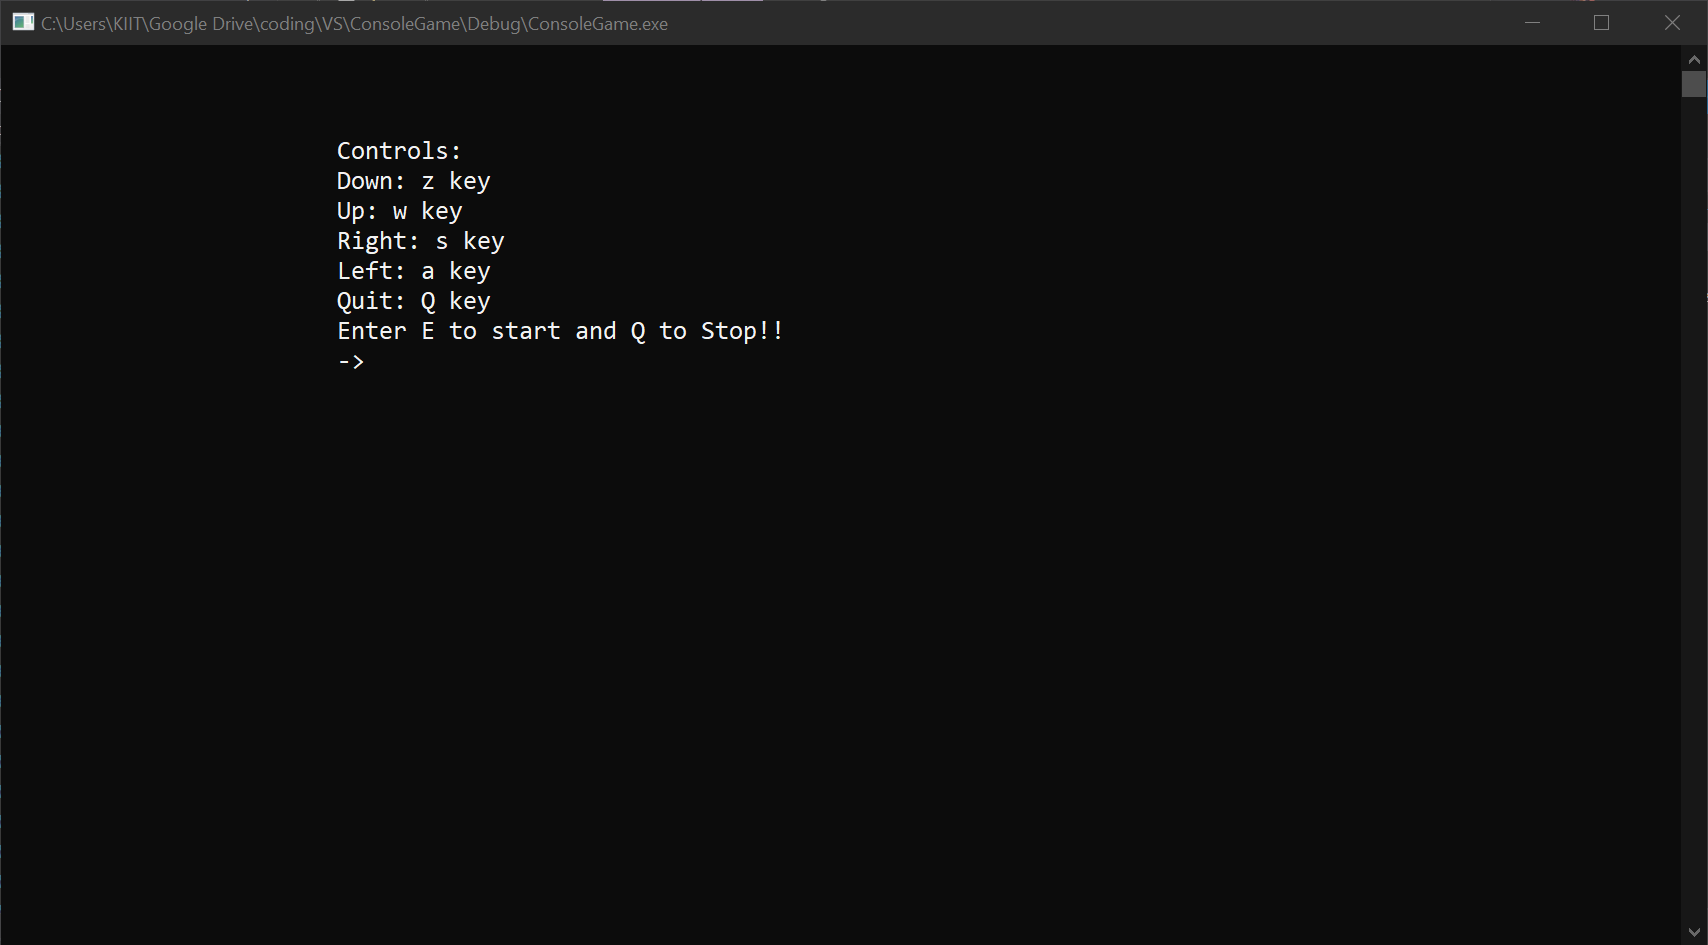
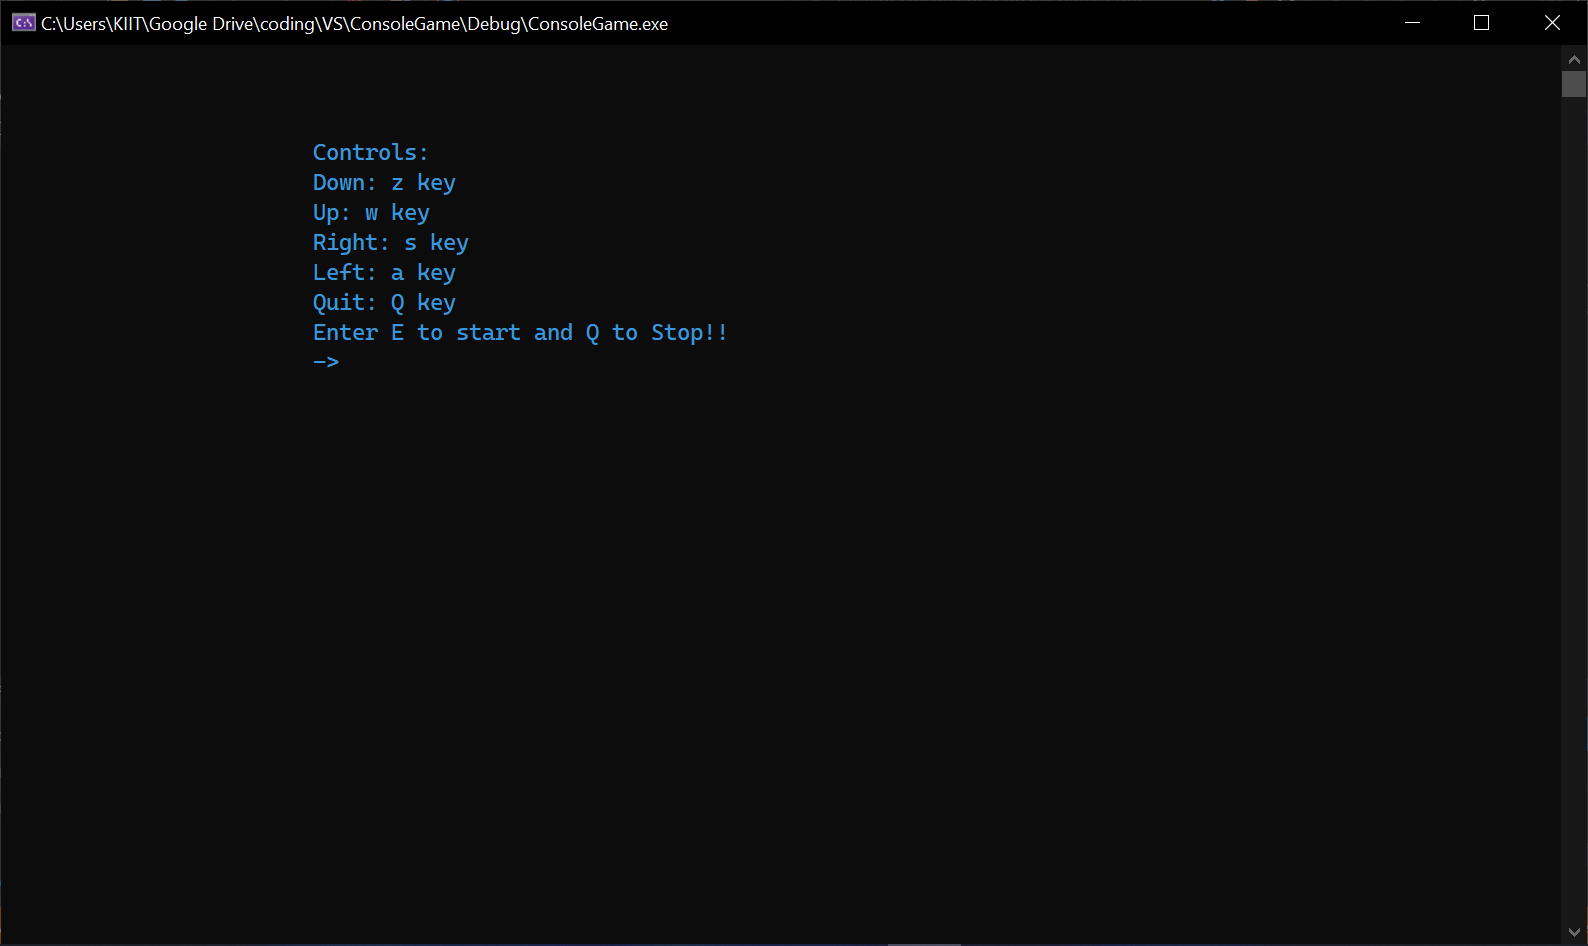
Added the winning status and much more

Changed region(s): [[0.0, 0.0, 1.0, 0.0614], [0.0, 0.982, 1.0, 1.0], [0.1851, 0.1534, 0.4628, 0.3683]]

diff --git a/ConsoleGame/ConsoleGame.cpp b/ConsoleGame/ConsoleGame.cpp
@@ -6,62 +6,83 @@ void sleep(unsigned milliseconds)
 {
     Sleep(milliseconds);
 }
-#else
-#include <unistd.h>
-
-void sleep(unsigned milliseconds)
-{
-    usleep(milliseconds * 1000); // takes microseconds
-}
 #endif
 
 #include <iostream>
 #include <time.h>
 #include <conio.h>
-#include <Windows.h>
-void createWindow(int, int, char**);
+#include <ios>
 
 class Game {
 
 public:
     Game() {
-        width = 80;
-        height = 20;
+        width = 20;
+        height = 7;
         usrRow = 1;
-        usrCol = 3;
+        usrCol = 2;
+        usr = '@';
+        boundary = '#';
+        empty = '.';
+        wonRow = height - 2;
+        wonCol = width - 2;
         matrix = new char* [height];
         for (int i = 0; i < height; i++)
             matrix[i] = new char[width];
-    }
+        
+        for (int i = 0; i < height; i++)
+            for (int j = 0; j < width; j++)
+                matrix[i][j] = empty;
 
-    void construct() {
         for (int i = 0; i < height; i++) {
             for (int j = 0; j < width; j++) {
                 if (j == 0 || j == width - 1) {
-                    matrix[i][j] = '#';
+                    matrix[i][j] = boundary;
                 }
                 else if (i == 0 || i == height - 1) {
-                    matrix[i][j] = '#';
+                    matrix[i][j] = boundary;
                 }
                 else if (i == usrRow && j == usrCol) {
-                    matrix[i][j] = '@';
-                }
-                else {
-                    matrix[i][j] = '-';
+                    matrix[i][j] = usr;
                 }
             }
         }
+        matrix[wonRow][wonCol] = 'X';
+
+        console_color = GetStdHandle(STD_OUTPUT_HANDLE);
+    }
+
+    void construct() {
+        //matrix[height / 2][width / 2] = boundary;
+        for (int row = 1; row < height / 2; row++)
+            matrix[row][3] = boundary;
+           
+        for(int row=0; row<height/2; row++)
+            matrix[height - 2 - row][width - 4] = boundary;
+        matrix[2][7] = boundary;
+
+        matrix[height - 2][3] = boundary;
+        for (int col = 3; col < 6; col++)
+            matrix[height - 3][col] = boundary;
+        
+        for (int row = 1; row <= height / 2; row++)
+            matrix[row][width - 7] = boundary;
+
+        for (int row = height/2; row <height; row++)
+            matrix[row][width - 10] = boundary;
+
     }
 
     void operatorJob()
     {
-        std::cout << "\n\n\n";
-        std::cout << "\t\t\tControls:\n";
-        std::cout << "\t\t\tDown: z key\n";
-        std::cout << "\t\t\tUp: w key\n";
-        std::cout << "\t\t\tRight: s key\n";
-        std::cout << "\t\t\tLeft: a key\n";
-        std::cout << "\t\t\tQuit: Q key\n";
+        SetConsoleTextAttribute(console_color, 3);
+        printf( "\n\n\n");
+        printf( "\t\t\tControls:\n");
+        printf( "\t\t\tDown: z key\n");
+        printf( "\t\t\tUp: w key\n");
+        printf( "\t\t\tRight: s key\n");
+        printf( "\t\t\tLeft: a key\n");
+        printf( "\t\t\tQuit: Q key\n");
         printf("\t\t\tEnter E to start and Q to Stop!!\n");
         printf("\t\t\t-> ");
         if (_getch() == 'E') {
@@ -79,26 +100,32 @@ public:
     }
 
     bool validBoundary(int i, int j) {
-        if (i > 0 && i < height - 1 && j>0 && j < width - 1)
+        if (i > 0 && i < height - 1 && j>0 && j < width - 1 && matrix[i][j]!=boundary)
             return true;
         return false;
     }
     
     void gameLoop();
+    void createWindow();
 
 private:
     int width, height;
     char** matrix;
+    HANDLE console_color;
     int usrRow, usrCol;
+    char usr, boundary, empty;
+    int wonRow, wonCol;
 };
 
 /***
 * increase the speed of update to instant we like use of '\b' or '\c'
 */
 void Game::gameLoop(void) {
+    SetConsoleTextAttribute(console_color, 10);
+    Game::createWindow();
     while (1) {
         int flag = 0;
-        createWindow(height, width, matrix);
+        int used = 0;
         switch (_getch())
         {
             case 'Q':flag = 1;
@@ -106,65 +133,97 @@ void Game::gameLoop(void) {
 
             case 'w': //up 
                 if (validBoundary(usrRow - 1, usrCol)) {
-                    matrix[usrRow][usrCol] = '-';
-                    matrix[usrRow-1][usrCol] = '@';
+                    matrix[usrRow][usrCol] = empty;
+                    matrix[usrRow-1][usrCol] = usr;
                     usrRow -= 1;
+                }
+                else {
+                    used = 1;
                 }
             break;
 
             case 'z': //down index+1
                 if (validBoundary(usrRow + 1, usrCol)) {
-                    matrix[usrRow][usrCol] = '-';
-                    matrix[usrRow + 1][usrCol] = '@';
+                    matrix[usrRow][usrCol] = empty;
+                    matrix[usrRow + 1][usrCol] = usr;
                     usrRow += 1;
+                }
+                else {
+                    used = 1;
                 }
             break;
 
             case 's': // right
                 if (validBoundary(usrRow , usrCol+1)) {
-                    matrix[usrRow][usrCol] = '-';
-                    matrix[usrRow][usrCol + 1] = '@';
+                    matrix[usrRow][usrCol] = empty;
+                    matrix[usrRow][usrCol + 1] = usr;
                     usrCol += 1;
+                }
+                else {
+                    used = 1;
                 }
             break;
 
             case 'a': //left
-                if (validBoundary(usrRow , usrCol-1)) {
-                    matrix[usrRow][usrCol] = '-';
-                    matrix[usrRow][usrCol - 1] = '@';
+                if (validBoundary(usrRow , usrCol - 1)) {
+                    matrix[usrRow][usrCol] = empty;
+                    matrix[usrRow][usrCol - 1] = usr;
                     usrCol -= 1;
                 }
+                else {
+                    used = 1;
+                }
             break;
+            default:continue;
         }
         if (flag)
             break;
-        system("cls");
-        //createWindow(height, width, matrix);
-        //sleep(10000);
+        if (usrRow == wonRow && usrCol== wonCol) {
+            system("cls");
+            printf("\n\n\t\tYou WON!!");
+            return;
+        }
+        if (used == 0)
+        {
+            system("cls");
+
+            Game::createWindow();
+        }
     }
 }
 
 
-void createWindow(int h, int w, char** m)
+void Game::createWindow()
 {
-    int ii, cc;
-    for (int i = 0; i < h; i++) {
-        for (int j = 0; j < w; j++) {
-            std::cout << m[i][j];
-            if (m[i][j] == '@') {
+    int ii=0, cc=0;
+    for (int i = 0; i < height; i++) {
+        for (int j = 0; j < width; j++) {
+            if (matrix[i][j] == empty)
+            {
+                printf(" ");
+                continue;
+            }
+            printf("%c", matrix[i][j]);
+            if (matrix[i][j] == usr) {
                 ii = i;
                 cc = j;
             }
+            
         }
         printf("\n");
     }
-    std::cout << "\n DEBUG!\n" << "usr row: " << ii << "\nusr col: " << cc << std::endl;
+
+    printf("\nDebug\nusr row: %d\nusr col: %d", ii, cc);
 }
 
 int main()
 {
+    std::ios_base::sync_with_stdio(false);
+    std::cin.tie(NULL);
     system("cls");
     Game gg;
     gg.operatorJob();
+    printf("press key to exit...  ");
+    _getch();
     return EXIT_SUCCESS;
 }

diff --git a/README.md b/README.md
@@ -1,3 +1,27 @@
-# ConsoleGame
+# ConsoleGame
 ![](/ConsoleGame/images/01.png)
 ![](/ConsoleGame/images/02.png)
+![](/ConsoleGame/images/03.png)
+
+# here we have to reach the position where `'X'` is there 
+😎
+
+Colour Codes
+colour | code | description
+--|--|--
+Black |	0 	| The color black.
+Blue |	9 | The color blue.
+Cyan |	11 	| The color cyan (blue-green).
+DarkBlue  |	1  |	The color dark blue.
+DarkCyan | 3 | 	The color dark cyan (dark blue-green).
+DarkGray |	8 |	The color dark gray.
+DarkGreen |	2 |	The color dark green.
+DarkMagenta |	5 |	The color dark magenta (dark purplish-red).
+DarkRed |	4 	 | The color dark red.
+DarkYellow |	6 | 	The color dark yellow (ochre).
+Gray |	7 |	The color gray.
+Green |	10 |	The color green.
+Magenta | 	13  |	The color magenta (purplish-red).
+Red |	12 |	The color red.
+White |	15 |	The color white.
+Yellow |	14 | 	The color yellow.
